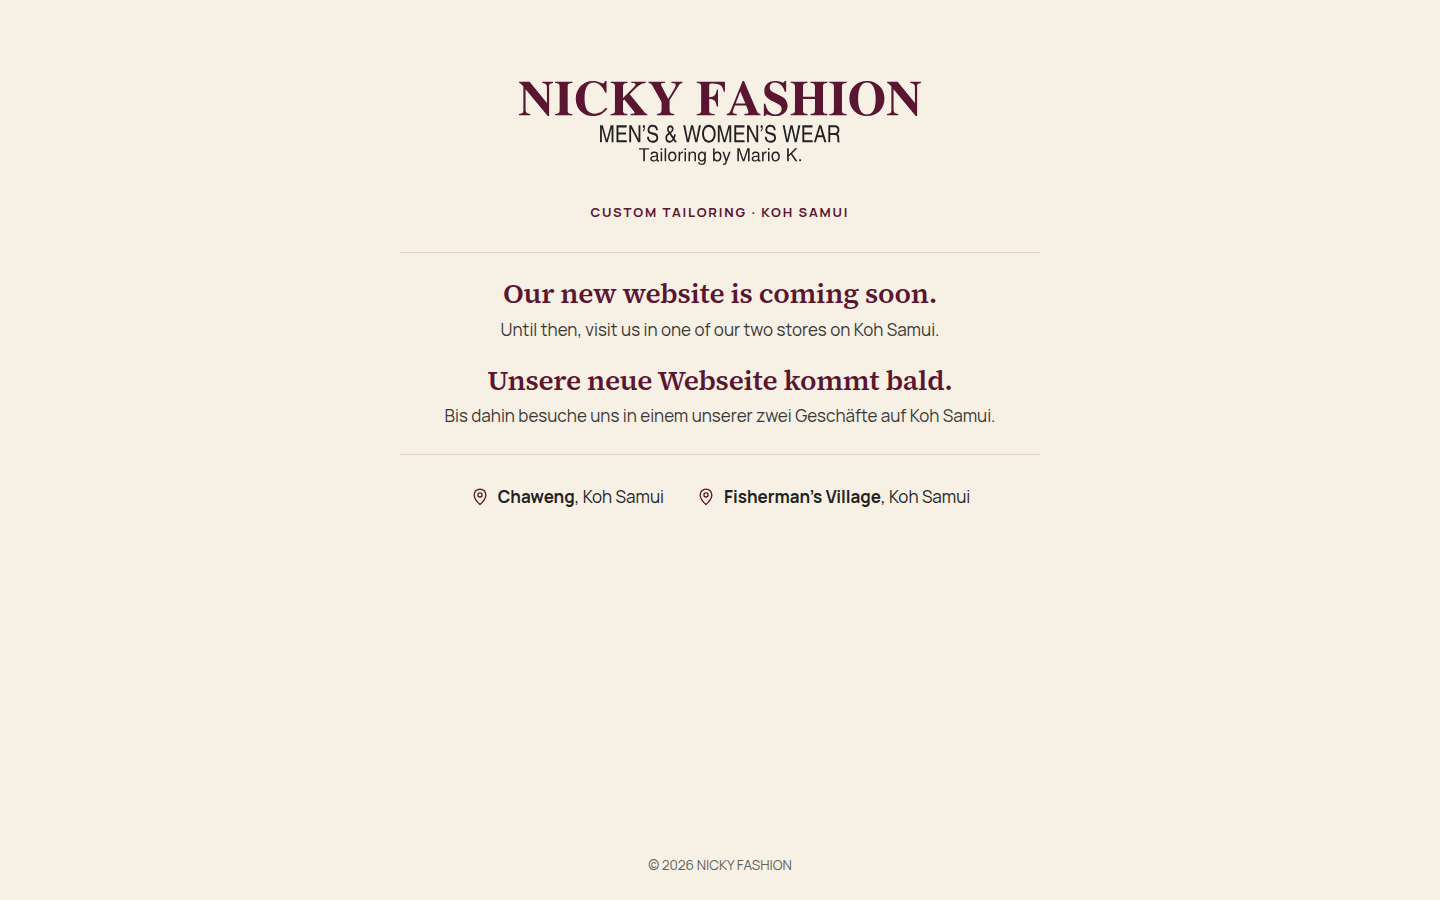
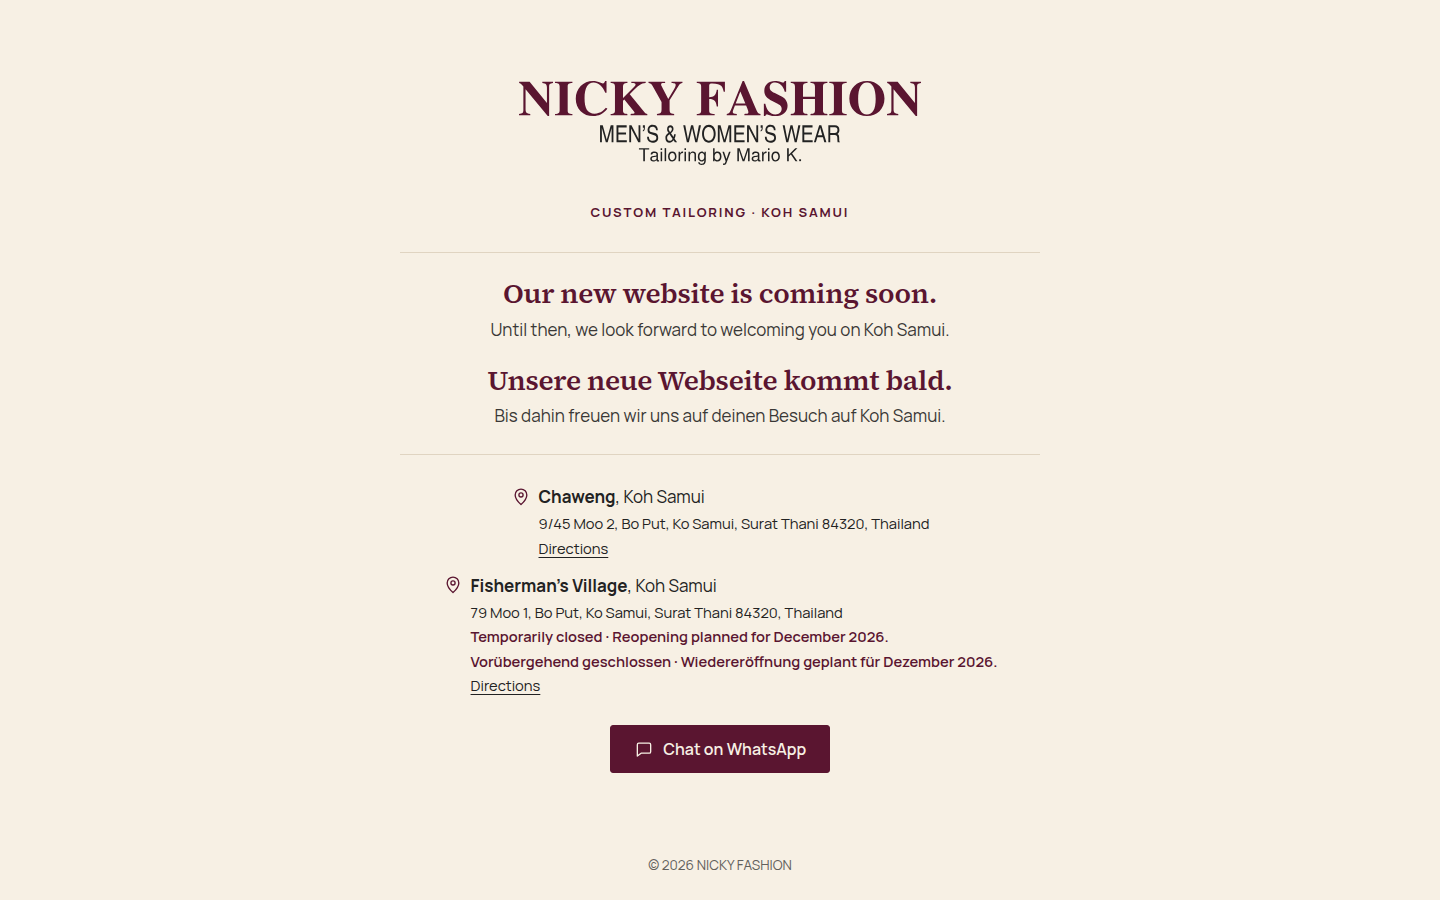
Add WhatsApp numbers, map links and the temporary Fisherman's Village closure
Fisherman's Village shows 'temporarily closed, reopening planned for
December 2026'; consultation requests and WhatsApp from its page go to
Chaweng. The Chaweng number is the central WhatsApp contact.

Claude-Session: https://claude.ai/code/session_013bkDsZbKmKwxTomnLfwcWJ

diff --git a/src/content/stores.ts b/src/content/stores.ts
@@ -22,6 +22,8 @@ export type Store = {
   mapUrl: Fact<string>;
   /** Short directions per language code (e.g. { en: '…', de: '…' }). English is the fallback. */
   directions: Fact<Partial<Record<string, string>>>;
+  /** Temporary closure with the planned reopening month (YYYY-MM). Shown on the site while set. */
+  closure?: Fact<{ reopening: string }>;
   /** Image ids from media.ts */
   exteriorImage: MediaId;
   /** Facade after the rename; replaces exteriorImage once brand.transition.active is true. */
@@ -47,6 +49,8 @@ export const stores: Record<StoreId, Store> = {
     ...unknownStoreFields(),
     address: confirmed('9/45 Moo 2, Bo Put, Ko Samui, Surat Thani 84320, Thailand', 'Owner, 3 Oct 2026 (Google listing)'),
     phone: confirmed('+66 82 475 1633', 'Owner, 3 Oct 2026 (Google listing)'),
+    whatsapp: confirmed('+66824751633', 'Owner, 3 Oct 2026: same number as the phone'),
+    mapUrl: confirmed('https://maps.app.goo.gl/3dDBAGcJVR94zLGS8', 'Owner, 3 Oct 2026 (Google Maps share link)'),
     hours: confirmed<OpeningHours>(
       [
         { days: 'Mo-Sa', open: '10:00', close: '22:00' },
@@ -64,6 +68,10 @@ export const stores: Record<StoreId, Store> = {
     ...unknownStoreFields(),
     address: confirmed('79 Moo 1, Bo Put, Ko Samui, Surat Thani 84320, Thailand', 'Owner, 3 Oct 2026 (Google listing)'),
     phone: confirmed('+66 82 403 8052', 'Owner, 3 Oct 2026 (Google listing)'),
+    whatsapp: confirmed('+66824038052', 'Owner, 3 Oct 2026: same number as the phone'),
+    mapUrl: confirmed('https://maps.app.goo.gl/D5SbsQmRPxoUXbdb6', 'Owner, 3 Oct 2026 (Google Maps share link)'),
+    /** Closed after a fire in the building (not mentioned on the site). Remove once reopened. */
+    closure: confirmed({ reopening: '2026-12' }, 'Owner, 3 Oct 2026: reopening planned for December'),
     previousName: confirmed('Samui Armani By Mario', 'Owner, 3 Oct 2026: current facade signage until the rename in 2027'),
     exteriorImage: 'store-fishermans-village-exterior',
     exteriorImageAfterRename: 'store-fishermans-village-exterior-renamed',
@@ -76,6 +84,13 @@ export const exteriorImageFor = (s: Store): MediaId =>
   brand.transition.active && s.exteriorImageAfterRename ? s.exteriorImageAfterRename : s.exteriorImage;
 
 export const storeIds = Object.keys(stores) as StoreId[];
+
+/** The planned reopening month while a store is temporarily closed, else null. */
+export const closureOf = (s: Store): string | null => (s.closure?.status === 'confirmed' ? s.closure.value.reopening : null);
+
+/** Store to send visitors to while `s` is closed (the first open one). */
+export const openAlternativeTo = (s: Store): StoreId | null =>
+  closureOf(s) ? (storeIds.find((id) => id !== s.id && !closureOf(stores[id])) ?? null) : null;
 
 export const isStoreId = (value: unknown): value is StoreId =>
   typeof value === 'string' && (storeIds as string[]).includes(value);

diff --git a/src/app/[locale]/stores/[store]/page.tsx b/src/app/[locale]/stores/[store]/page.tsx
@@ -1,11 +1,11 @@
 import type { Metadata } from 'next';
 import Link from 'next/link';
 import { notFound } from 'next/navigation';
-import { exteriorImageFor, isStoreId, storeIds, stores } from '@/content/stores';
+import { exteriorImageFor, isStoreId, openAlternativeTo, storeIds, stores } from '@/content/stores';
 import type { StoreId } from '@/content/types';
 import { Icon } from '@/components/Icon';
 import { Media } from '@/components/Media';
-import { ClosingCta, DirectionsButton, PageHead, StoreFacts } from '@/components/Sections';
+import { ClosingCta, ClosureNotice, DirectionsButton, PageHead, StoreFacts } from '@/components/Sections';
 import { TrackedLink } from '@/components/TrackedLink';
 import { WhatsAppButton } from '@/components/WhatsAppButton';
 import { fmt, localePath } from '@/lib/i18n';
@@ -38,6 +38,8 @@ export default async function StorePage({ params }: { params: Params }) {
   const { locale, t, id } = await resolve(params);
   const name = t.storeNames[id];
   const s = stores[id];
+  /** While this store is closed, consultation requests go to the open store. */
+  const requestStore = openAlternativeTo(s) ?? id;
   const other = storeIds.find((x) => x !== id)!;
   const siteUrl = getSiteUrl();
   const directionsFact = shown(s.directions);
@@ -64,6 +66,7 @@ export default async function StorePage({ params }: { params: Params }) {
             <Media id={s.interiorImage} dict={t} alt={fmt(t.stores.interiorAlt, { store: name })} ratio="4 / 3" sizes="(min-width: 900px) 66vw, 100vw" />
           </div>
           <aside className="sticky-aside card stack">
+            <ClosureNotice store={id} locale={locale} t={t} />
             <StoreFacts store={id} locale={locale} t={t} />
             {(directions || isPreview()) && (
               <div>
@@ -72,11 +75,11 @@ export default async function StorePage({ params }: { params: Params }) {
               </div>
             )}
             <div className="btn-row" style={{ flexDirection: 'column', alignItems: 'stretch' }}>
-              <TrackedLink href={`${localePath(locale, '/contact')}?store=${id}`} className="btn" event="contact_cta_click" params={{ store: id }}>
+              <TrackedLink href={`${localePath(locale, '/contact')}?store=${requestStore}`} className="btn" event="contact_cta_click" params={{ store: requestStore }}>
                 <Icon name="calendar" />
-                {fmt(t.stores.requestHere, { store: name })}
+                {fmt(t.stores.requestHere, { store: t.storeNames[requestStore] })}
               </TrackedLink>
-              <WhatsAppButton dict={t} store={id} />
+              <WhatsAppButton dict={t} store={requestStore} />
               <DirectionsButton store={id} t={t} />
             </div>
           </aside>

diff --git a/src/app/coming-soon/page.tsx b/src/app/coming-soon/page.tsx
@@ -1,9 +1,11 @@
 import { brand } from '@/content/brand';
-import { stores, storeIds } from '@/content/stores';
+import { closureOf, stores, storeIds } from '@/content/stores';
+import { formatMonth } from '@/lib/hours';
 import { Icon } from '@/components/Icon';
 import { LogoImage } from '@/components/Logo';
 import { buildWhatsAppLink, whatsappNumberFor } from '@/lib/whatsapp';
 import { dictionaries } from '@/content/locales';
+import { fmt } from '@/lib/i18n';
 
 /**
  * Public holding page for www.nickyfashionsamui.com while the full site is prepared.
@@ -25,11 +27,11 @@ export default function ComingSoonPage() {
         <div className="holding-langs">
           <section lang="en">
             <h2>Our new website is coming soon.</h2>
-            <p>Until then, visit us in one of our two stores on Koh Samui.</p>
+            <p>Until then, we look forward to welcoming you on Koh Samui.</p>
           </section>
           <section lang="de">
             <h2>Unsere neue Webseite kommt bald.</h2>
-            <p>Bis dahin besuche uns in einem unserer zwei Geschäfte auf Koh Samui.</p>
+            <p>Bis dahin freuen wir uns auf deinen Besuch auf Koh Samui.</p>
           </section>
         </div>
 
@@ -38,12 +40,23 @@ export default function ComingSoonPage() {
             const s = stores[id];
             const address = s.address.status === 'confirmed' ? s.address.value : null;
             const map = s.mapUrl.status === 'confirmed' ? s.mapUrl.value : null;
+            const closed = closureOf(s);
             return (
               <li key={id}>
                 <Icon name="pin" />
                 <span>
                   <strong>{s.name.value}</strong>, {s.area.value}
                   {address && <span className="holding-address">{address}</span>}
+                  {closed && (
+                    <span className="holding-closed">
+                      <span lang="en">
+                        {dictionaries.en.stores.temporarilyClosed} · {fmt(dictionaries.en.stores.reopening, { month: formatMonth(closed, 'en') })}
+                      </span>
+                      <span lang="de">
+                        {dictionaries.de.stores.temporarilyClosed} · {fmt(dictionaries.de.stores.reopening, { month: formatMonth(closed, 'de') })}
+                      </span>
+                    </span>
+                  )}
                   {map && (
                     <a href={map} target="_blank" rel="noopener noreferrer" className="holding-map">
                       Directions

diff --git a/src/components/Sections.tsx b/src/components/Sections.tsx
@@ -1,8 +1,8 @@
 import Link from 'next/link';
 import type { Dictionary, Locale } from '@/content/locales';
 import { categories, categoryIds, processSteps } from '@/content/services';
-import { exteriorImageFor, stores } from '@/content/stores';
-import { formatDays } from '@/lib/hours';
+import { closureOf, exteriorImageFor, openAlternativeTo, stores } from '@/content/stores';
+import { formatDays, formatMonth } from '@/lib/hours';
 import type { StoreId } from '@/content/types';
 import { fmt, localePath } from '@/lib/i18n';
 import { isPageAvailable, isPreview, isPublishable, shown } from '@/lib/site';
@@ -163,6 +163,27 @@ export function StoreFacts({ store, locale, t }: { store: StoreId; locale: Local
   );
 }
 
+/** Store names for the form's store choice, marking temporarily closed stores. */
+export function storeNamesWithStatus(t: Dictionary): Dictionary['storeNames'] {
+  const out = { ...t.storeNames };
+  for (const id of Object.keys(out) as StoreId[]) if (closureOf(stores[id])) out[id] = `${out[id]} (${t.stores.temporarilyClosed})`;
+  return out;
+}
+
+/** Visible notice while a store is temporarily closed, with the planned reopening. */
+export function ClosureNotice({ store, locale, t }: { store: StoreId; locale: Locale; t: Dictionary }) {
+  const s = stores[store];
+  const month = closureOf(s);
+  if (!month) return null;
+  const other = openAlternativeTo(s);
+  return (
+    <p className="notice notice-closed">
+      <strong>{t.stores.temporarilyClosed}.</strong> {fmt(t.stores.reopening, { month: formatMonth(month, locale) })}
+      {other && <> {fmt(t.stores.visitOther, { store: t.storeNames[other] })}</>}
+    </p>
+  );
+}
+
 export function StoreCard({ store, locale, t, headingLevel = 3 }: { store: StoreId; locale: Locale; t: Dictionary; headingLevel?: 2 | 3 }) {
   const s = stores[store];
   const Heading = `h${headingLevel}` as 'h2' | 'h3';
@@ -175,6 +196,7 @@ export function StoreCard({ store, locale, t, headingLevel = 3 }: { store: Store
         </p>
         <Heading>{t.storeNames[store]}</Heading>
       </div>
+      <ClosureNotice store={store} locale={locale} t={t} />
       <StoreFacts store={store} locale={locale} t={t} />
       <div className="btn-row">
         <Link href={localePath(locale, `/stores/${store}`)} className="btn">

diff --git a/src/content/locales/th.ts b/src/content/locales/th.ts
@@ -261,13 +261,16 @@ const th: Dictionary = {
     phoneLabel: 'โทรศัพท์',
     whatsappLabel: 'WhatsApp',
     directionsLabel: 'การเดินทาง',
-    directionsText: 'ข้อมูลการเดินทางจะเพิ่มพร้อมกับลิงก์แผนที่ที่ได้รับการยืนยัน',
+    directionsText: 'คำแนะนำการเดินทางจะตามมาเร็วๆ นี้',
     storeTitle: 'ร้านของเราที่{store}',
     storeIntro: 'ร้านของเราที่{store} เกาะสมุย แวะมารับคำปรึกษาได้ หรือส่งคำขอถึงเราก่อน',
     requestHere: 'ขอรับคำปรึกษาที่{store}',
     otherStore: 'อีกร้านของเรา',
     exteriorAlt: 'หน้าร้านที่{store}',
     interiorAlt: 'ภายในร้านที่{store}',
+    temporarilyClosed: 'ปิดชั่วคราว',
+    reopening: 'มีแผนเปิดอีกครั้งใน{month}',
+    visitOther: 'ระหว่างนี้ ยินดีต้อนรับที่ร้าน {store}',
   },
   ourWork: {
     metaTitle: 'ผลงานของเรา',

diff --git a/e2e/site.spec.ts b/e2e/site.spec.ts
@@ -312,10 +312,18 @@ test('Our Work: filter by style and an accessible look dialog with focus return'
   await expect(opener).toBeFocused();
 });
 
-test('WhatsApp is visibly disabled while no number is confirmed', async ({ page }) => {
+test('WhatsApp uses the confirmed store number with a prefilled message', async ({ page }) => {
   await page.goto('/en/stores/chaweng');
-  await expect(page.locator('a[href^="https://wa.me/"]')).toHaveCount(0);
-  await expect(page.getByText('WhatsApp number not yet confirmed').first()).toBeVisible();
+  const href = await page.locator('.sticky-aside a[href^="https://wa.me/"]').first().getAttribute('href');
+  expect(href).toMatch(/^https:\/\/wa\.me\/66824751633\?text=/);
+  expect(decodeURIComponent(href!.split('text=')[1]!)).toContain('Chaweng');
+});
+
+test('a temporarily closed store shows the reopening and routes requests to the open store', async ({ page }) => {
+  await page.goto('/en/stores/fishermans-village');
+  await expect(page.getByText('Temporarily closed.').first()).toBeVisible();
+  await expect(page.getByText('Reopening planned for December 2026.').first()).toBeVisible();
+  await expect(page.locator('.sticky-aside a[href$="/contact?store=chaweng"]')).toHaveCount(1);
 });
 
 test.describe('widths 360–1440: no horizontal overflow', () => {

diff --git a/src/content/content.test.ts b/src/content/content.test.ts
@@ -151,8 +151,7 @@ describe('preview vs production release', () => {
     expect(items).toMatch(/English/);
     expect(items).toMatch(/Deutsch/);
     expect(items).not.toMatch(/Italiano|Français|ไทย/);
-    expect(items).toMatch(/WhatsApp/);
-    expect(items).toMatch(/Map link/);
+    expect(items).toMatch(/delivery service/);
     expect(items).toMatch(/delivery service/);
     expect(items).toMatch(/rate-limit/);
   });
@@ -165,5 +164,18 @@ describe('store facades', () => {
     const fv = stores['fishermans-village'];
     expect(exteriorImageFor(fv)).toBe(brand.transition.active ? fv.exteriorImageAfterRename : fv.exteriorImage);
     expect(exteriorImageFor({ ...fv, exteriorImageAfterRename: undefined })).toBe(fv.exteriorImage);
+  });
+});
+
+describe('temporary store closure', () => {
+  it('sends requests for a closed store to an open one', async () => {
+    const { stores, storeIds, closureOf, openAlternativeTo } = await import('./stores');
+    for (const id of storeIds) {
+      const alt = openAlternativeTo(stores[id]);
+      if (closureOf(stores[id])) {
+        expect(closureOf(stores[id])).toMatch(/^\d{4}-\d{2}$/);
+        if (alt) expect(closureOf(stores[alt])).toBeNull();
+      } else expect(alt).toBeNull();
+    }
   });
 });

diff --git a/src/lib/i18n.test.ts b/src/lib/i18n.test.ts
@@ -2,6 +2,8 @@ import { describe, expect, it } from 'vitest';
 import { alternates, fmt, localePath, stripLocale, switchLocalePath } from './i18n';
 import { dictionaries, locales } from '@/content/locales';
 import { buildWhatsAppLink, normaliseWhatsAppNumber, whatsappNumberFor } from './whatsapp';
+import { brand } from '@/content/brand';
+import { stores } from '@/content/stores';
 
 describe('language switch keeps the current page', () => {
   it('replaces only the locale prefix', () => {
@@ -35,7 +37,9 @@ describe('language switch keeps the current page', () => {
 
 describe('WhatsApp links', () => {
   it('are not generated without a confirmed number', () => {
-    expect(whatsappNumberFor('chaweng')).toBeNull();
+    // Only confirmed facts count: a store number is used only when its status is confirmed
+    const chaweng = stores.chaweng.whatsapp;
+    expect(whatsappNumberFor('chaweng')).toBe(chaweng.status === 'confirmed' ? chaweng.value : brand.whatsapp.status === 'confirmed' ? brand.whatsapp.value : null);
     expect(buildWhatsAppLink({ number: null, dict: dictionaries.en })).toBeNull();
   });
 

diff --git a/src/app/[locale]/contact/page.tsx b/src/app/[locale]/contact/page.tsx
@@ -1,4 +1,5 @@
 import type { Metadata } from 'next';
+import { storeNamesWithStatus } from '@/components/Sections';
 import Link from 'next/link';
 import { storeIds } from '@/content/stores';
 import { InquiryForm } from '@/components/InquiryForm';
@@ -22,7 +23,7 @@ export default async function ContactPage({ params }: { params: LocaleParams }) 
       <PageHead title={t.contact.title} lead={t.contact.intro} crumbLabel={t.common.breadcrumb} crumbs={[{ href: localePath(locale, '/'), label: t.common.home }]} />
       <section className="section" style={{ paddingTop: 0 }}>
         <div className="container detail-grid">
-          <InquiryForm locale={locale} t={t.form} storeNames={t.storeNames} privacyHref={localePath(locale, '/privacy')} lookInfo={lookInfoFor(t)} />
+          <InquiryForm locale={locale} t={t.form} storeNames={storeNamesWithStatus(t)} privacyHref={localePath(locale, '/privacy')} lookInfo={lookInfoFor(t)} />
           <aside className="sticky-aside stack">
             <div className="card">
               <h2 style={{ fontSize: '1.25rem' }}>{t.contact.otherWays}</h2>

diff --git a/src/app/[locale]/returning-customers/page.tsx b/src/app/[locale]/returning-customers/page.tsx
@@ -1,4 +1,5 @@
 import type { Metadata } from 'next';
+import { storeNamesWithStatus } from '@/components/Sections';
 import { InquiryForm } from '@/components/InquiryForm';
 import { lookInfoFor } from '@/components/Looks';
 import { PageHead } from '@/components/Sections';
@@ -21,7 +22,7 @@ export default async function ReturningCustomersPage({ params }: { params: Local
       <section className="section" style={{ paddingTop: 0 }}>
         <div className="container" style={{ maxWidth: 'calc(820px + 2 * var(--gutter))' }}>
           <p className="muted">{t.returning.hint}</p>
-          <InquiryForm locale={locale} t={t.form} storeNames={t.storeNames} privacyHref={localePath(locale, '/privacy')} lookInfo={lookInfoFor(t)} type="reorder" />
+          <InquiryForm locale={locale} t={t.form} storeNames={storeNamesWithStatus(t)} privacyHref={localePath(locale, '/privacy')} lookInfo={lookInfoFor(t)} type="reorder" />
         </div>
       </section>
     </>

diff --git a/src/content/locales/fr.ts b/src/content/locales/fr.ts
@@ -258,13 +258,16 @@ const fr: Dictionary = {
     phoneLabel: 'Téléphone',
     whatsappLabel: 'WhatsApp',
     directionsLabel: 'Accès',
-    directionsText: 'Les indications d’accès seront ajoutées avec le lien de carte confirmé.',
+    directionsText: 'De courtes indications d’accès suivront.',
     storeTitle: 'Notre boutique à {store}',
     storeIntro: 'Notre boutique à {store}, Koh Samui. Passez pour un conseil ou envoyez-nous d’abord une demande.',
     requestHere: 'Demander un conseil à {store}',
     otherStore: 'Notre autre boutique',
     exteriorAlt: 'Devanture à {store}',
     interiorAlt: 'Intérieur de la boutique à {store}',
+    temporarilyClosed: 'Fermé temporairement',
+    reopening: 'Réouverture prévue en {month}.',
+    visitOther: 'D’ici là, nous vous accueillons volontiers à {store}.',
   },
   ourWork: {
     metaTitle: 'Nos réalisations',

diff --git a/src/content/locales/de.ts b/src/content/locales/de.ts
@@ -261,13 +261,16 @@ const de: Dictionary = {
     phoneLabel: 'Telefon',
     whatsappLabel: 'WhatsApp',
     directionsLabel: 'Anfahrt',
-    directionsText: 'Anfahrtshinweise folgen zusammen mit dem bestätigten Kartenlink.',
+    directionsText: 'Kurze Anfahrtshinweise folgen.',
     storeTitle: 'Unser Geschäft in {store}',
     storeIntro: 'Unser Geschäft in {store}, Koh Samui. Komm für eine Beratung vorbei oder sende uns zuerst eine Anfrage.',
     requestHere: 'Beratung in {store} anfragen',
     otherStore: 'Unser anderes Geschäft',
     exteriorAlt: 'Ladenfront in {store}',
     interiorAlt: 'Im Geschäft in {store}',
+    temporarilyClosed: 'Vorübergehend geschlossen',
+    reopening: 'Wiedereröffnung geplant für {month}.',
+    visitOther: 'Bis dahin freuen wir uns auf deinen Besuch in {store}.',
   },
   ourWork: {
     metaTitle: 'Unsere Arbeiten',
